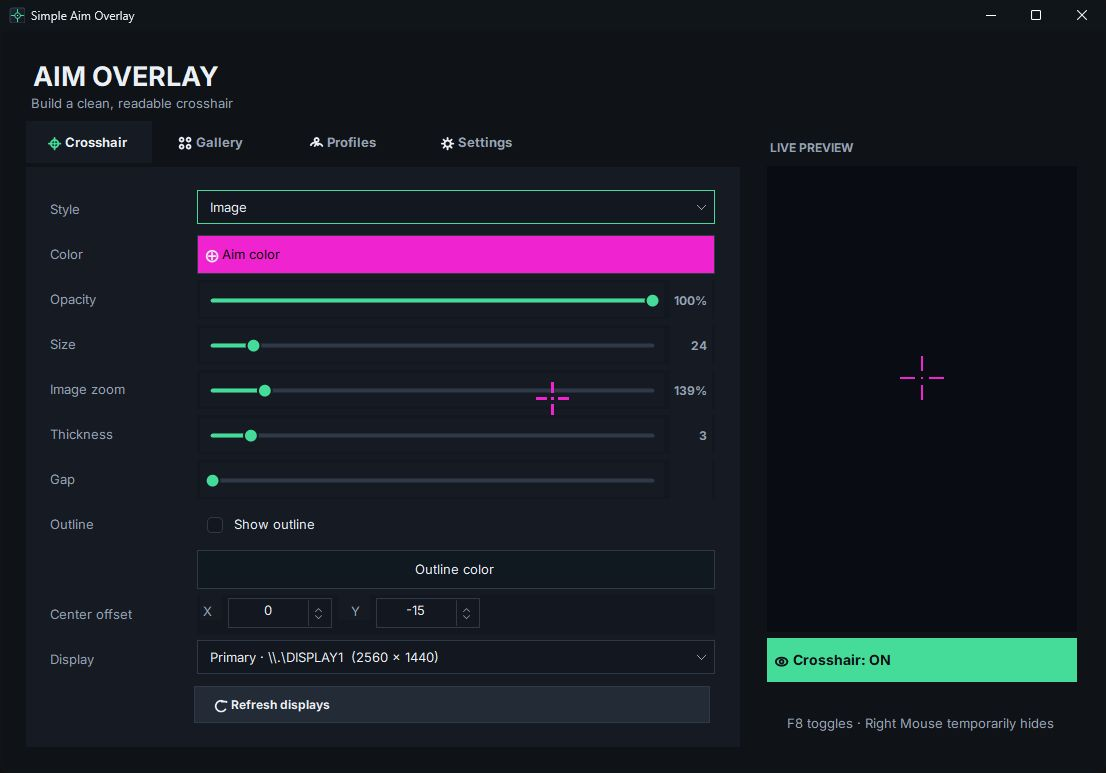
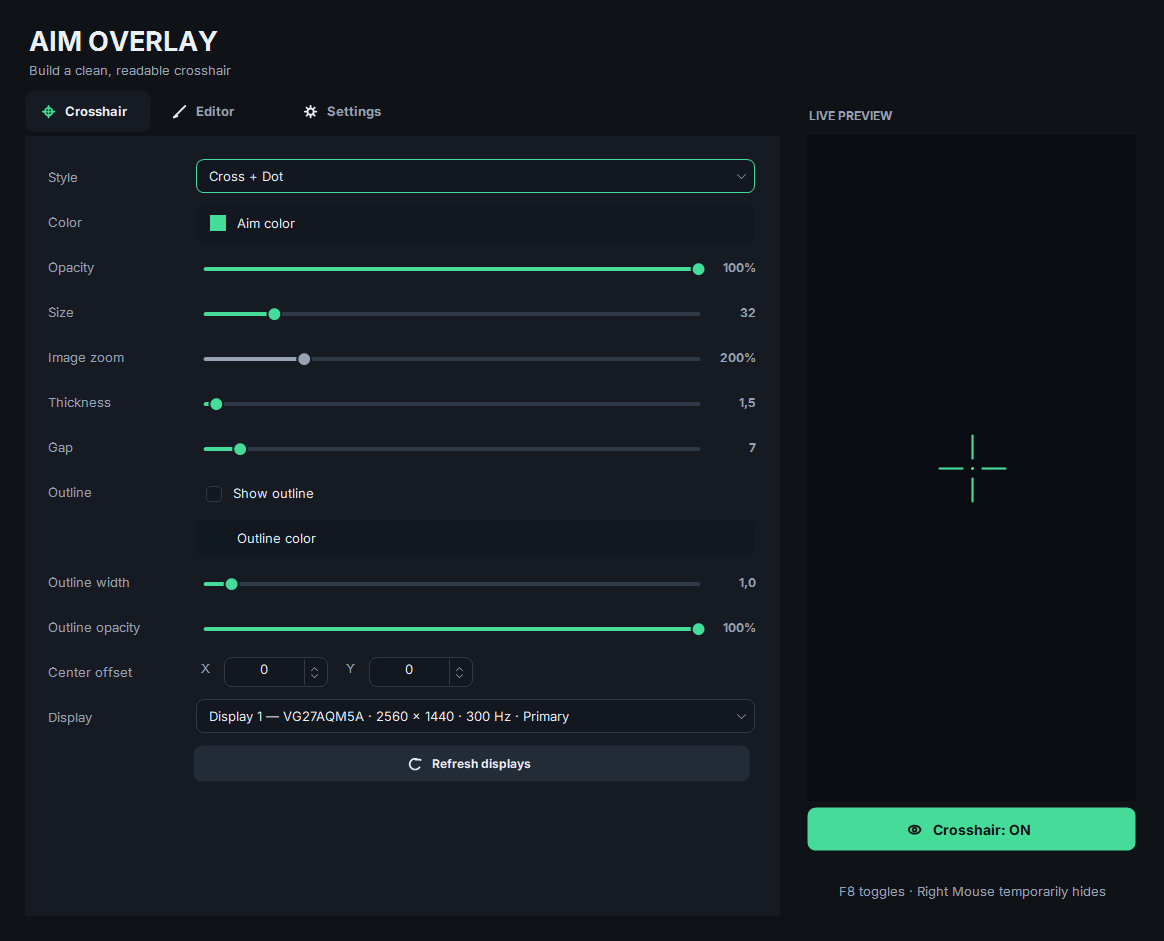
Release 0.2.0 with updated user guide and screenshot gallery

diff --git a/Program.cs b/Program.cs
@@ -83,7 +83,8 @@ internal static class Store
 internal sealed class ControlWindow : Form
 {
     private const int WM_HOTKEY = 0x0312, HotkeyId = 0x51A1;
-    private StoreData data = Store.Load();
+    private StoreData data;
+    private readonly bool previewMode;
     private readonly OverlayWindow overlay = new();
     private readonly DarkTabHost tabs = new();
     private readonly DarkComboBox shape = new(), monitor = new(), language = new();
@@ -121,8 +122,10 @@ internal sealed class ControlWindow : Form
     [System.Runtime.InteropServices.DllImport("user32.dll", SetLastError = true)] private static extern bool UnregisterHotKey(IntPtr hwnd, int id);
     [System.Runtime.InteropServices.DllImport("user32.dll")] private static extern short GetAsyncKeyState(int key);
 
-    public ControlWindow()
+    public ControlWindow() : this(null) { }
+    internal ControlWindow(StoreData? previewData)
     {
+        previewMode=previewData!=null; data=previewData??Store.Load();
         UiText.Language = data.Language == "uk" ? "uk" : "en";
         Text = "Simple Aim Overlay"; Icon = BrandIcon.Load(); MinimumSize = new Size(900, 660); Size = new Size(1120, 780);
         StartPosition = FormStartPosition.CenterScreen; Font = AppFonts.Regular(9.5f); BackColor = DarkTheme.Window;
@@ -130,7 +133,7 @@ internal sealed class ControlWindow : Form
         foreach (var profile in data.Profiles) if (profile.Aim.Shape == "Image" && BundledCrosshairs.Contains(Path.GetFileName(profile.Aim.ImagePath), StringComparer.OrdinalIgnoreCase)) profile.Aim.Shape = "Cross";
         if (data.Current.Shape == "Image" && BundledCrosshairs.Contains(Path.GetFileName(data.Current.ImagePath), StringComparer.OrdinalIgnoreCase)) data.Current.Shape = "Cross";
         BuildLayout(); LoadCurrent(); initializing = false; Apply(); PopulateImages();
-        tray.Icon = BrandIcon.Load(); tray.Text = "Simple Aim Overlay"; tray.Visible = true;
+        tray.Icon = BrandIcon.Load(); tray.Text = "Simple Aim Overlay"; tray.Visible = !previewMode;
         var menu = new ContextMenuStrip { BackColor = DarkTheme.Surface, ForeColor = DarkTheme.Text, Renderer = new ToolStripProfessionalRenderer(new DarkColorTable()) };
         menu.Items.Add("Open", GlyphPainter.Create("aim", 16, DarkTheme.Accent), (_, _) => RestoreWindow()); menu.Items.Add("Show / hide", GlyphPainter.Create("visibility", 16), (_, _) => ToggleVisible()); menu.Items.Add("Exit", GlyphPainter.Create("delete", 16), (_, _) => { allowExit = true; Close(); }); tray.ContextMenuStrip = menu;
         tray.MouseDown += (_, e) => { if (e.Button == MouseButtons.Right) trayInteracting = true; };
@@ -139,7 +142,7 @@ internal sealed class ControlWindow : Form
         Resize += (_, _) => { if (WindowState == FormWindowState.Minimized && data.MinimizeToTray) Hide(); };
         tray.DoubleClick += (_, _) => RestoreWindow();
         holdTimer.Tick += (_, _) => PollHoldKey();
-        Shown += async (_, _) => { ApplyLanguage(); RoundedUi.Apply(this); runtimeStarted = true; RefreshRuntimeVisibility(); BindHotkey(); holdTimer.Start(); if (data.LaunchWithGame) GameLauncher.StartWatcher(); if (Environment.GetCommandLineArgs().Contains("--game")) Hide(); await CheckUpdates(false); };
+        Shown += async (_, _) => { ApplyLanguage(); RoundedUi.Apply(this); if(previewMode)return; runtimeStarted = true; RefreshRuntimeVisibility(); BindHotkey(); holdTimer.Start(); if (data.LaunchWithGame) GameLauncher.StartWatcher(); if (Environment.GetCommandLineArgs().Contains("--game")) Hide(); await CheckUpdates(false); };
         FormClosing += (_, e) =>
         {
             if (!allowExit && e.CloseReason == CloseReason.UserClosing && data.MinimizeToTrayOnClose)
@@ -233,7 +236,7 @@ internal sealed class ControlWindow : Form
     {
         var p = Page("Settings"); var grid = Grid(); p.Controls.Add(grid);
         language.Items.AddRange(["English", "Українська"]); AddRow(grid, "Language", language);
-        language.SelectedIndexChanged += (_, _) => { if(initializing)return; data.Language=language.SelectedIndex==1?"uk":"en"; ApplyLanguage(); Store.Save(data); };
+        language.SelectedIndexChanged += (_, _) => { if(initializing)return; data.Language=language.SelectedIndex==1?"uk":"en"; ApplyLanguage(); SaveData(); };
         visible.Text = "Show crosshair"; visible.AutoSize = true; AddRow(grid, "Visibility", visible);
         AddRow(grid, "Toggle hotkey", hotkey);
         hideWhileHeld.Text = "Hide while key is held"; hideWhileHeld.AutoSize = true; AddRow(grid, "Hold to hide", hideWhileHeld);
@@ -241,7 +244,7 @@ internal sealed class ControlWindow : Form
         startup.Text = "Launch when Windows starts"; startup.AutoSize = true; AddRow(grid, "Startup", startup);
         closeToTray.Text = "Minimize to tray when closed"; closeToTray.AutoSize = true; AddRow(grid, "Close button", closeToTray);
         minimizeToTray.Text = "Minimize to tray with the − button"; AddRow(grid, "Minimize button", minimizeToTray);
-        minimizeToTray.CheckedChanged += (_, _) => { if (!initializing) { data.MinimizeToTray = minimizeToTray.Checked; Store.Save(data); } };
+        minimizeToTray.CheckedChanged += (_, _) => { if (!initializing) { data.MinimizeToTray = minimizeToTray.Checked; SaveData(); } };
         launchWithGame.Text = "Show only in the selected game"; AddRow(grid, "Selected game", launchWithGame);
         var browseGame = Button("Browse…", DarkTheme.SurfaceHover, DarkTheme.Text);
         var gameRow = GamePathRow.Create(gameExecutable, browseGame);
@@ -263,10 +266,11 @@ internal sealed class ControlWindow : Form
         hideWhileHeld.CheckedChanged += (_, _) => { if (!initializing) Apply(); };
         holdKey.BindingChanged += (_, _) => { if (!initializing) Apply(); };
         startup.CheckedChanged += (_, _) => SetStartup();
-        closeToTray.CheckedChanged += (_, _) => { if (initializing) return; data.MinimizeToTrayOnClose = closeToTray.Checked; Store.Save(data); };
+        closeToTray.CheckedChanged += (_, _) => { if (initializing) return; data.MinimizeToTrayOnClose = closeToTray.Checked; SaveData(); };
         return p;
     }
 
+    private void SaveData() { if(!previewMode)Store.Save(data); }
     private void ApplyLanguage()
     {
         UiText.Language=data.Language=="uk"?"uk":"en";
@@ -283,7 +287,7 @@ internal sealed class ControlWindow : Form
         if (initializing) return;
         string selected = gameExecutable.Text.Trim().Trim('"');
         if (launchWithGame.Checked && !GameLauncher.IsValidTarget(selected)) { DarkMessage.Show(this, "Choose an existing game EXE, or enter its process filename (for example TslGame.exe).", "Game startup"); return; }
-        try { GameLauncher.Configure(launchWithGame.Checked); data.GameExecutable = selected; data.LaunchWithGame = launchWithGame.Checked; Store.Save(data); RefreshRuntimeVisibility(); if (data.LaunchWithGame) GameLauncher.StartWatcher(); }
+        try { GameLauncher.Configure(launchWithGame.Checked); data.GameExecutable = selected; data.LaunchWithGame = launchWithGame.Checked; SaveData(); RefreshRuntimeVisibility(); if (data.LaunchWithGame) GameLauncher.StartWatcher(); }
         catch (Exception ex) { DarkMessage.Show(this, ex.Message, "Game startup"); }
     }
     private Task CheckUpdates(bool manual) => updater.CheckAsync(this, manual, text => { if (!IsDisposed) updateStatus.Text = text; }, () => { allowExit = true; Close(); });
@@ -354,7 +358,7 @@ internal sealed class ControlWindow : Form
     {
         string folder = Path.Combine(Store.Root, "crosshairs"); Directory.CreateDirectory(folder);
         images.Items.Clear(); foreach (var x in data.Images) if (File.Exists(Path.Combine(folder, x))) images.Items.Add(x);
-        Store.Save(data);
+        SaveData();
     }
     private void DrawCrosshairItem(object? sender, DrawItemEventArgs e)
     {
@@ -396,7 +400,7 @@ internal sealed class ControlWindow : Form
         images.Invalidate(); RefreshColorSwatches();
         if (monitor.SelectedItem is MonitorItem mi) s.Monitor = mi.Screen.DeviceName;
         s.Hotkey = hotkey.Binding;
-        RefreshRuntimeVisibility(); preview.Invalidate(); Store.Save(data); BindHotkey();
+        RefreshRuntimeVisibility(); preview.Invalidate(); SaveData(); BindHotkey();
     }
     private Screen SelectedScreen() => monitor.SelectedItem is MonitorItem mi ? mi.Screen : Screen.PrimaryScreen ?? Screen.AllScreens[0];
     private void PickColor(bool isOutline)
@@ -483,7 +487,7 @@ internal sealed class ControlWindow : Form
         {
             using var key = Registry.CurrentUser.OpenSubKey("Software\\Microsoft\\Windows\\CurrentVersion\\Run", true);
             if (startup.Checked) key?.SetValue("SimpleAimOverlay", $"\"{Application.ExecutablePath}\""); else key?.DeleteValue("SimpleAimOverlay", false);
-            data.Current.StartWithWindows = startup.Checked; Store.Save(data);
+            data.Current.StartWithWindows = startup.Checked; SaveData();
         }
         catch { DarkMessage.Show(this, "Could not update the startup setting.", "Simple Aim Overlay", MessageBoxButtons.OK, MessageBoxIcon.Warning); }
     }

diff --git a/tests/ScreenshotGallery.cs b/tests/ScreenshotGallery.cs
@@ -1,0 +1,42 @@
+using SimpleAimOverlay;
+using System.Drawing;
+using System.Drawing.Imaging;
+using System.Reflection;
+using System.Windows.Forms;
+
+internal static class ScreenshotGallery
+{
+    internal static void Render(string folder)
+    {
+        Application.EnableVisualStyles();AppFonts.Initialize();Directory.CreateDirectory(folder);
+        const BindingFlags flags=BindingFlags.NonPublic|BindingFlags.Instance;
+        void Save(Form form,string name) {
+            Application.DoEvents();form.PerformLayout();
+            using var full=new Bitmap(form.Width,form.Height);form.DrawToBitmap(full,new Rectangle(Point.Empty,form.Size));
+            Point client=form.PointToScreen(Point.Empty)-new Size(form.Left,form.Top);
+            using var content=full.Clone(new Rectangle(client,form.ClientSize),PixelFormat.Format32bppArgb);
+            content.Save(Path.Combine(folder,name+".png"));
+        }
+        var demo=new StoreData{Language="en",GameExecutable="TslGame.exe",Current=new AimSettings{Shape="Cross + Dot",Size=32,Thickness=1.5f,Gap=7,Color="#45DC99",Visible=true}};
+        using(var main=new ControlWindow(demo){Size=new Size(1180,980)}) {
+            main.Show();
+            var tabs=(DarkTabHost)typeof(ControlWindow).GetField("tabs",flags)!.GetValue(main)!;
+            Save(main,"crosshair");
+            typeof(DarkTabHost).GetMethod("SelectPage",flags)!.Invoke(tabs,[2]);Save(main,"settings");
+            var language=(ComboBox)typeof(ControlWindow).GetField("language",flags)!.GetValue(main)!;
+            language.SelectedIndex=1;Save(main,"settings-uk");
+            typeof(Form).GetMethod("OnFormClosing",flags)!.Invoke(main,[new FormClosingEventArgs(CloseReason.ApplicationExitCall,false)]);
+        }
+        UiText.Language="en";
+        using(var editor=new PixelCrosshairEditor(null,Color.FromArgb(69,220,153))) {
+            var canvas=(DrawingCanvas)typeof(PixelCrosshairEditor).GetField("canvas",flags)!.GetValue(editor)!;
+            using(var g=Graphics.FromImage(canvas.Image)) {
+                using var fill=new SolidBrush(Color.FromArgb(69,220,153));
+                g.FillRectangle(fill,31,16,2,12);g.FillRectangle(fill,31,36,2,12);g.FillRectangle(fill,16,31,12,2);g.FillRectangle(fill,36,31,12,2);g.FillRectangle(fill,31,31,2,2);
+            }
+            editor.Show();Save(editor,"editor");editor.DialogResult=DialogResult.OK;editor.Close();
+        }
+        using(var palette=new DarkColorPicker{Color=Color.FromArgb(69,220,153)}) {palette.Show();Save(palette,"color-picker");palette.Close();}
+        Console.WriteLine("Screenshot gallery saved to "+folder);
+    }
+}

diff --git a/packaging/Installer/Program.cs b/packaging/Installer/Program.cs
@@ -37,7 +37,7 @@ internal static class Program
     static void Install(int? parent)
     {
         var result = parent.HasValue ? DialogResult.Yes : DarkMessage.Show(
-            "This is a self-signed Simple Aim Overlay 0.1.13 build.\n\n" +
+            "This is a self-signed Simple Aim Overlay 0.2.0 build.\n\n" +
             "Setup will add the SimpleAimOverlay test certificate to this PC's trusted certificate stores " +
             "and install the app in Program Files (required for UIAccess).\n\n" +
             "Only continue if you trust the package source. This build does not include a DXGI hook.\n\n" +
@@ -67,7 +67,7 @@ internal static class Program
         using (var key = Registry.LocalMachine.CreateSubKey(@"SOFTWARE\Microsoft\Windows\CurrentVersion\Uninstall\SimpleAimOverlayTest"))
         {
             key.SetValue("DisplayName", Product);
-            key.SetValue("DisplayVersion", "0.1.13");
+            key.SetValue("DisplayVersion", "0.2.0");
             key.SetValue("Publisher", "SimpleAimOverlay contributors (local test certificate)");
             key.SetValue("InstallLocation", InstallDir);
             key.SetValue("DisplayIcon", Path.Combine(InstallDir, AppExe));

diff --git a/CrosshairEditor.cs b/CrosshairEditor.cs
@@ -19,7 +19,7 @@ internal sealed class PixelCrosshairEditor : Form
     private readonly DarkCheckBox tintToAim = new() { Text = "Use crosshair color", AutoSize = false, Width = 180, Height = 36, Checked = true, ForeColor = DarkTheme.Text, BackColor = DarkTheme.Surface, Padding = new Padding(6, 9, 6, 0) };
     private readonly bool resizableCanvas;
     private readonly Panel livePreview = new() { BackColor = DarkTheme.Preview, Dock = DockStyle.Fill };
-    private readonly DarkComboBox dimensions = new() { DropDownStyle = ComboBoxStyle.DropDownList, Width = 96 };
+    private readonly DarkComboBox dimensions = new() { DropDownStyle = ComboBoxStyle.DropDownList, Width = 120 };
     private Color initialColor;
     private bool syncingDimensions;
     private readonly Bitmap originalImage;

diff --git a/tests/Program.cs b/tests/Program.cs
@@ -8,6 +8,7 @@ static class Checks {
 const BindingFlags Private = BindingFlags.NonPublic | BindingFlags.Instance;
 static void Assert(bool condition,string message){if(!condition)throw new Exception(message);}
 [STAThread] static void Main(string[] args) {
+if(args.Length==2&&args[0]=="--screenshots"){ScreenshotGallery.Render(args[1]);return;}
 var assembly=Assembly.Load("SimpleAimOverlay");
 var number=assembly.GetType("SimpleAimOverlay.DarkNumberBox")!;
 using(var box=(Control)Activator.CreateInstance(number,[-2000,2000,0])!) {

diff --git a/README.md b/README.md
@@ -1,23 +1,47 @@
 # Simple Aim Overlay
 
-A customizable crosshair for Windows 10/11 (64-bit). No account required.
+A customizable crosshair for **Windows 10/11, 64-bit**. English and Ukrainian. No account required.
 
-**[Download the latest installer](https://github.com/vvoldi/SimpleAimOverlay/releases/latest)**
+**[Download 0.2.0 — Windows installer](https://github.com/vvoldi/SimpleAimOverlay/releases/download/v0.2.0/SimpleAimOverlay-0.2.0-Setup.exe)** · [All releases](https://github.com/vvoldi/SimpleAimOverlay/releases)
 
-Run `Setup.exe` and approve the administrator prompt. The first installation asks you to trust this project's self-signed certificate; Windows may show an unknown-publisher warning. Exit the app from its tray menu before a manual update.
+## Install & update
 
-- Choose a standard crosshair, or draw your own in **Editor** using pencil, lines, rectangles, ellipses, fill, symmetry and undo/redo.
-- **F8** toggles the crosshair. Holding **Right Mouse** temporarily hides it. Click either binding in Settings to record up to three keys, including mouse buttons.
-- **Settings → Language** switches between English (default) and Ukrainian immediately and remembers your choice.
-- **Settings** controls closing/minimizing to the tray and startup with Windows or a game. PUBG is the default game; choose another EXE with **Browse**. **Show only in the selected game** hides the crosshair on the desktop and in other apps, including after Alt+Tab. It also starts the overlay when that game launches, using a small background watcher at Windows sign-in. Turn the option off for unrestricted visibility and to stop the watcher.
-- In **Editor**, double-click a drawing to edit it, use **Ctrl + wheel** to zoom, and **Import / Export** to share a drawing (.aim preserves color mode; PNG works with other editors). Closing an edited drawing asks whether to save.
-- **Settings → Configuration** imports/exports settings with drawings. Updates keep your configuration and create a backup; importing a configuration keeps this PC's startup choices.
-- Updates are checked once at launch, or through **Settings → Check for updates**. Installation requires confirmation and may ask for administrator approval.
+Run the EXE and approve the administrator prompt. On first installation, setup adds this project's **self-signed certificate** to your PC's trusted stores. Only install if you trust the source; Windows may show an unknown-publisher warning.
 
-Fullscreen compatibility depends on the game and graphics mode. The app does not use game hooks.
+Updates are checked **once at launch**, or manually in **Settings → Check for updates**. Your settings and drawings are kept; the updater also saves a configuration backup before installation. Exit the app through its tray menu before a manual update.
 
-Download speed reflects the last four seconds. **Settings → Open update logs** opens local diagnostics; backups are in the backups subfolder.
+## Make it yours
 
-Settings and custom drawings stay in `%LOCALAPPDATA%\SimpleAimOverlay`.
+- **Crosshair:** standard styles, color, opacity, size, 0.1px thickness steps, gap, outline width/opacity, center offset and monitor selection.
+- **Editor:** pencil, shapes, fill and symmetry. **Ctrl + wheel** zooms; **Ctrl + Z / Y** undo and redo. Double-click a saved drawing to edit it.
+- **Share:** import/export drawings as **.aim** (includes color mode) or **PNG**. **Settings → Configuration** transfers settings and drawings together.
+- **Keys:** **F8** toggles visibility; hold **Right Mouse** to hide temporarily. Click either binding in Settings to record up to three keys, including mouse buttons.
+- **Selected game:** **Show only in the selected game** hides the crosshair outside the active game, including after Alt+Tab. It also starts the app when the game launches, using a background watcher at Windows sign-in. PUBG is the default; choose another game with **Browse**.
+- **Settings:** English / Українська, Windows startup, and closing/minimizing to the tray. Choose **Exit** in the tray menu to quit.
+
+Fullscreen compatibility depends on the game and graphics mode. No game hooks are used.
+
+## Screenshots
+
+Click an image to view it at full size.
+
+| Crosshair controls | Drawing editor |
+| --- | --- |
+| [![Crosshair controls](docs/screenshots/crosshair.png)](docs/screenshots/crosshair.png) | [![Drawing editor](docs/screenshots/editor.png)](docs/screenshots/editor.png) |
+
+| Settings — English | Налаштування — українська |
+| --- | --- |
+| [![English settings](docs/screenshots/settings.png)](docs/screenshots/settings.png) | [![Ukrainian settings](docs/screenshots/settings-uk.png)](docs/screenshots/settings-uk.png) |
+
+<details>
+<summary>Color picker</summary>
+
+[![Color picker](docs/screenshots/color-picker.png)](docs/screenshots/color-picker.png)
+
+</details>
+
+## Help
+
+Settings, drawings and backups stay in **%LOCALAPPDATA%\SimpleAimOverlay**. **Settings → Open update logs** opens download diagnostics; the displayed speed covers the last four seconds.
 
 [Report a problem](https://github.com/vvoldi/SimpleAimOverlay/issues) · [MIT license](LICENSE)
